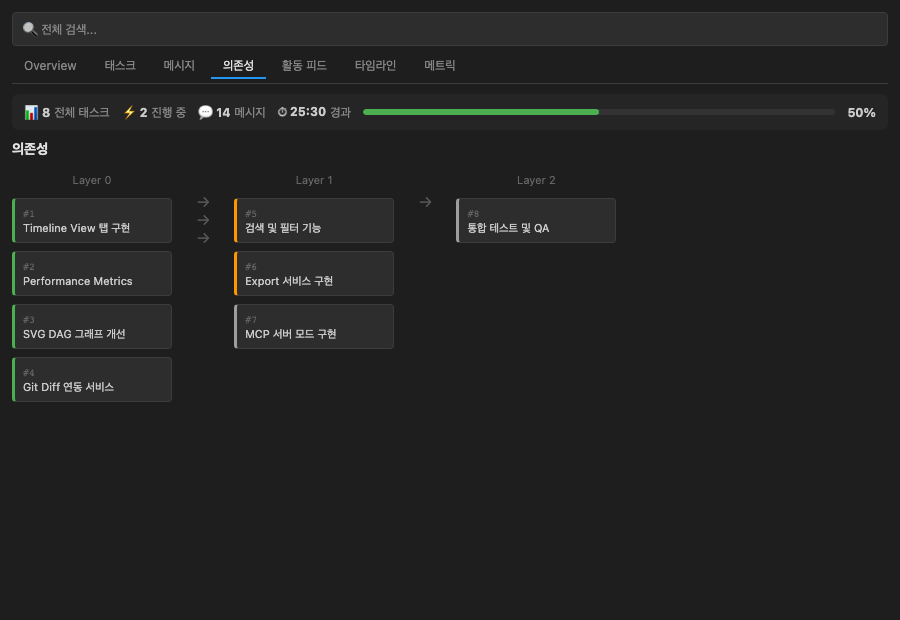
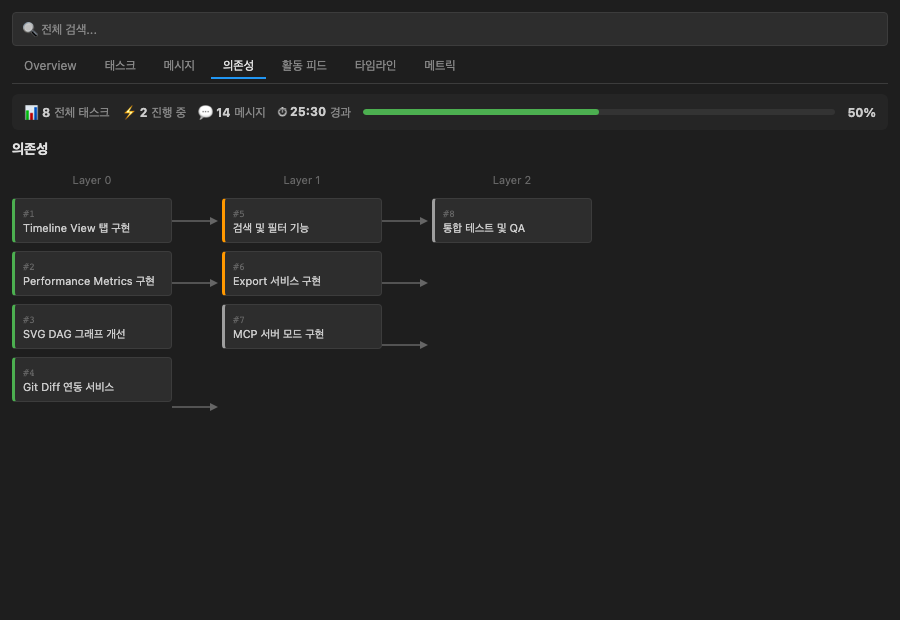
fix: DAG 스크린샷 화살표 SVG 교체 + 메트릭 CSS 개선
스크린샷:
- DAG 화살표를 텍스트(→) 대신 인라인 SVG path+polygon으로 교체
- 노드 간 정확한 화살표 연결

실제 대시보드 CSS:
- 속도 차트 바에 그라디언트 + hover 글로우 효과
- 히트맵 바에 그라디언트 + hover 하이라이트
- DAG 연결선/화살표 opacity 0.5→0.6
- 메트릭 카드 hover 시 border+배경 강조

diff --git a/src/views/dashboard-css.ts b/src/views/dashboard-css.ts
@@ -979,10 +979,14 @@ body {
 .cfm-velocity-bar {
   width: 100%;
   max-width: 24px;
-  background: rgb(var(--cfm-agent-active-base));
+  background: linear-gradient(to top, rgb(var(--cfm-agent-active-base)), rgba(var(--cfm-agent-active-base), 0.5));
   border-radius: var(--cfm-radius-sm) var(--cfm-radius-sm) 0 0;
   min-height: 2px;
   transition: height var(--cfm-transition-normal);
+}
+.cfm-velocity-bar:hover {
+  background: rgb(var(--cfm-agent-active-base));
+  box-shadow: 0 0 4px rgba(var(--cfm-agent-active-base), 0.4);
 }
 .cfm-velocity-label {
   font-size: 10px;
@@ -1019,9 +1023,12 @@ body {
 }
 .cfm-heatmap-bar {
   height: 100%;
-  background: var(--cfm-status-in-progress);
+  background: linear-gradient(to right, var(--cfm-status-in-progress), rgba(var(--cfm-status-in-progress-base), 0.5));
   border-radius: 4px;
   transition: width var(--cfm-transition-normal);
+}
+.cfm-heatmap-row:hover .cfm-heatmap-bar {
+  background: var(--cfm-status-in-progress);
 }
 .cfm-heatmap-count {
   min-width: 24px;
@@ -1046,11 +1053,15 @@ body {
   fill: none;
   stroke: var(--cfm-text-muted);
   stroke-width: 1.5;
-  opacity: 0.5;
+  opacity: 0.6;
 }
 .cfm-dag-arrow {
   fill: var(--cfm-text-muted);
-  opacity: 0.5;
+  opacity: 0.6;
+}
+.cfm-metric-card:hover {
+  border-color: var(--cfm-border-active);
+  background: var(--cfm-overlay-light);
 }
 .cfm-deps-node {
   display: flex;
